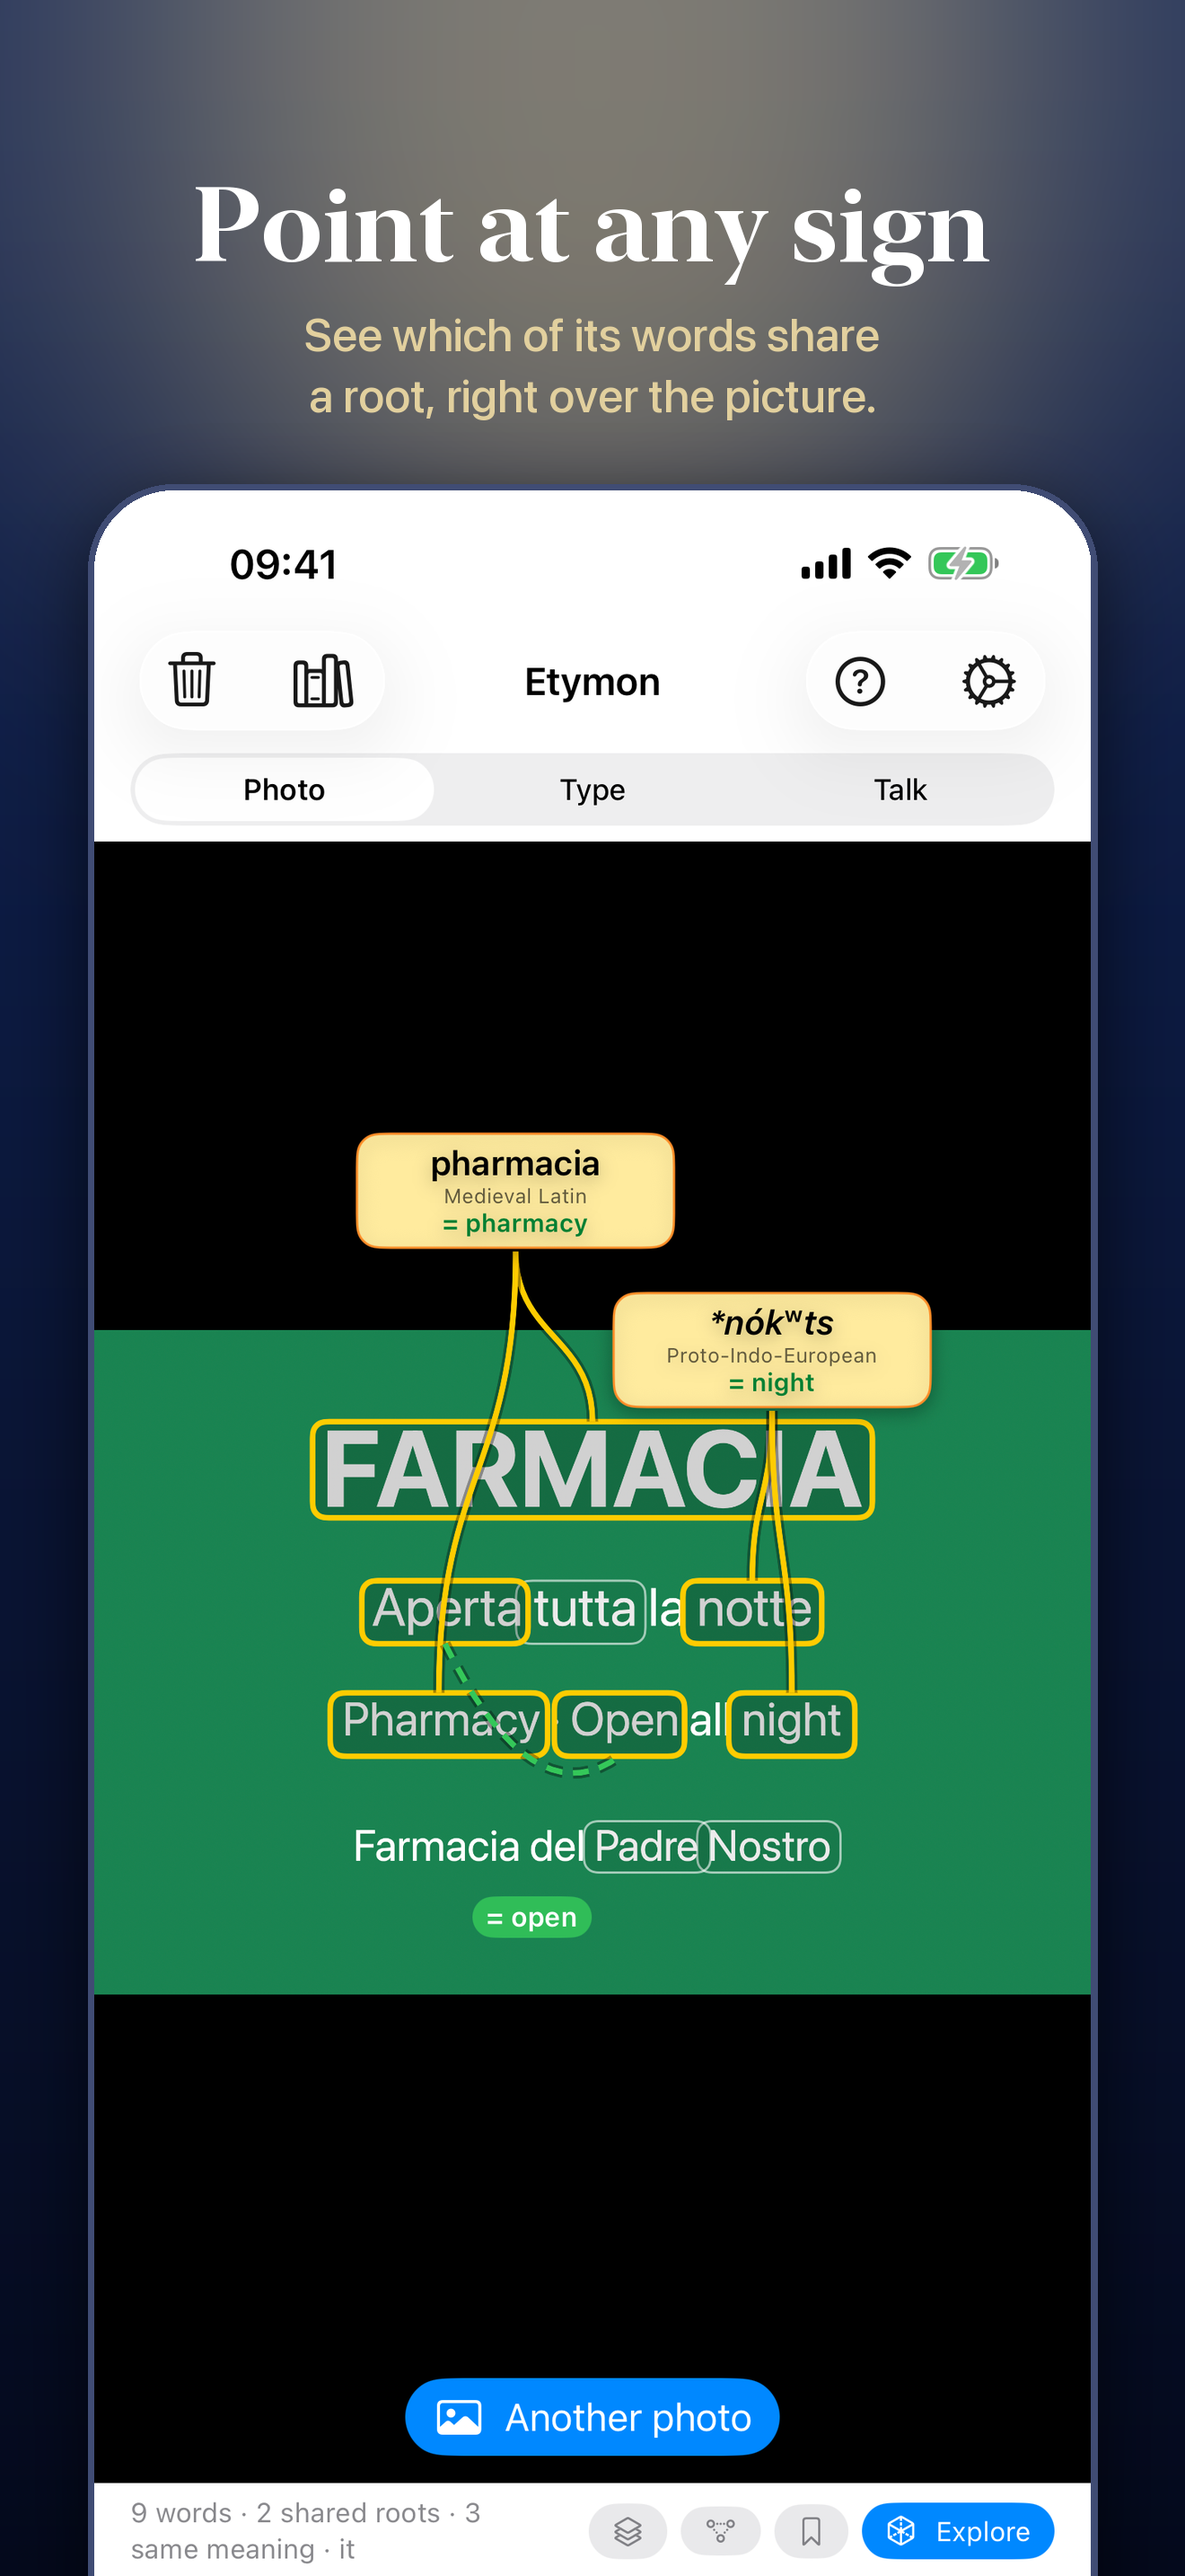
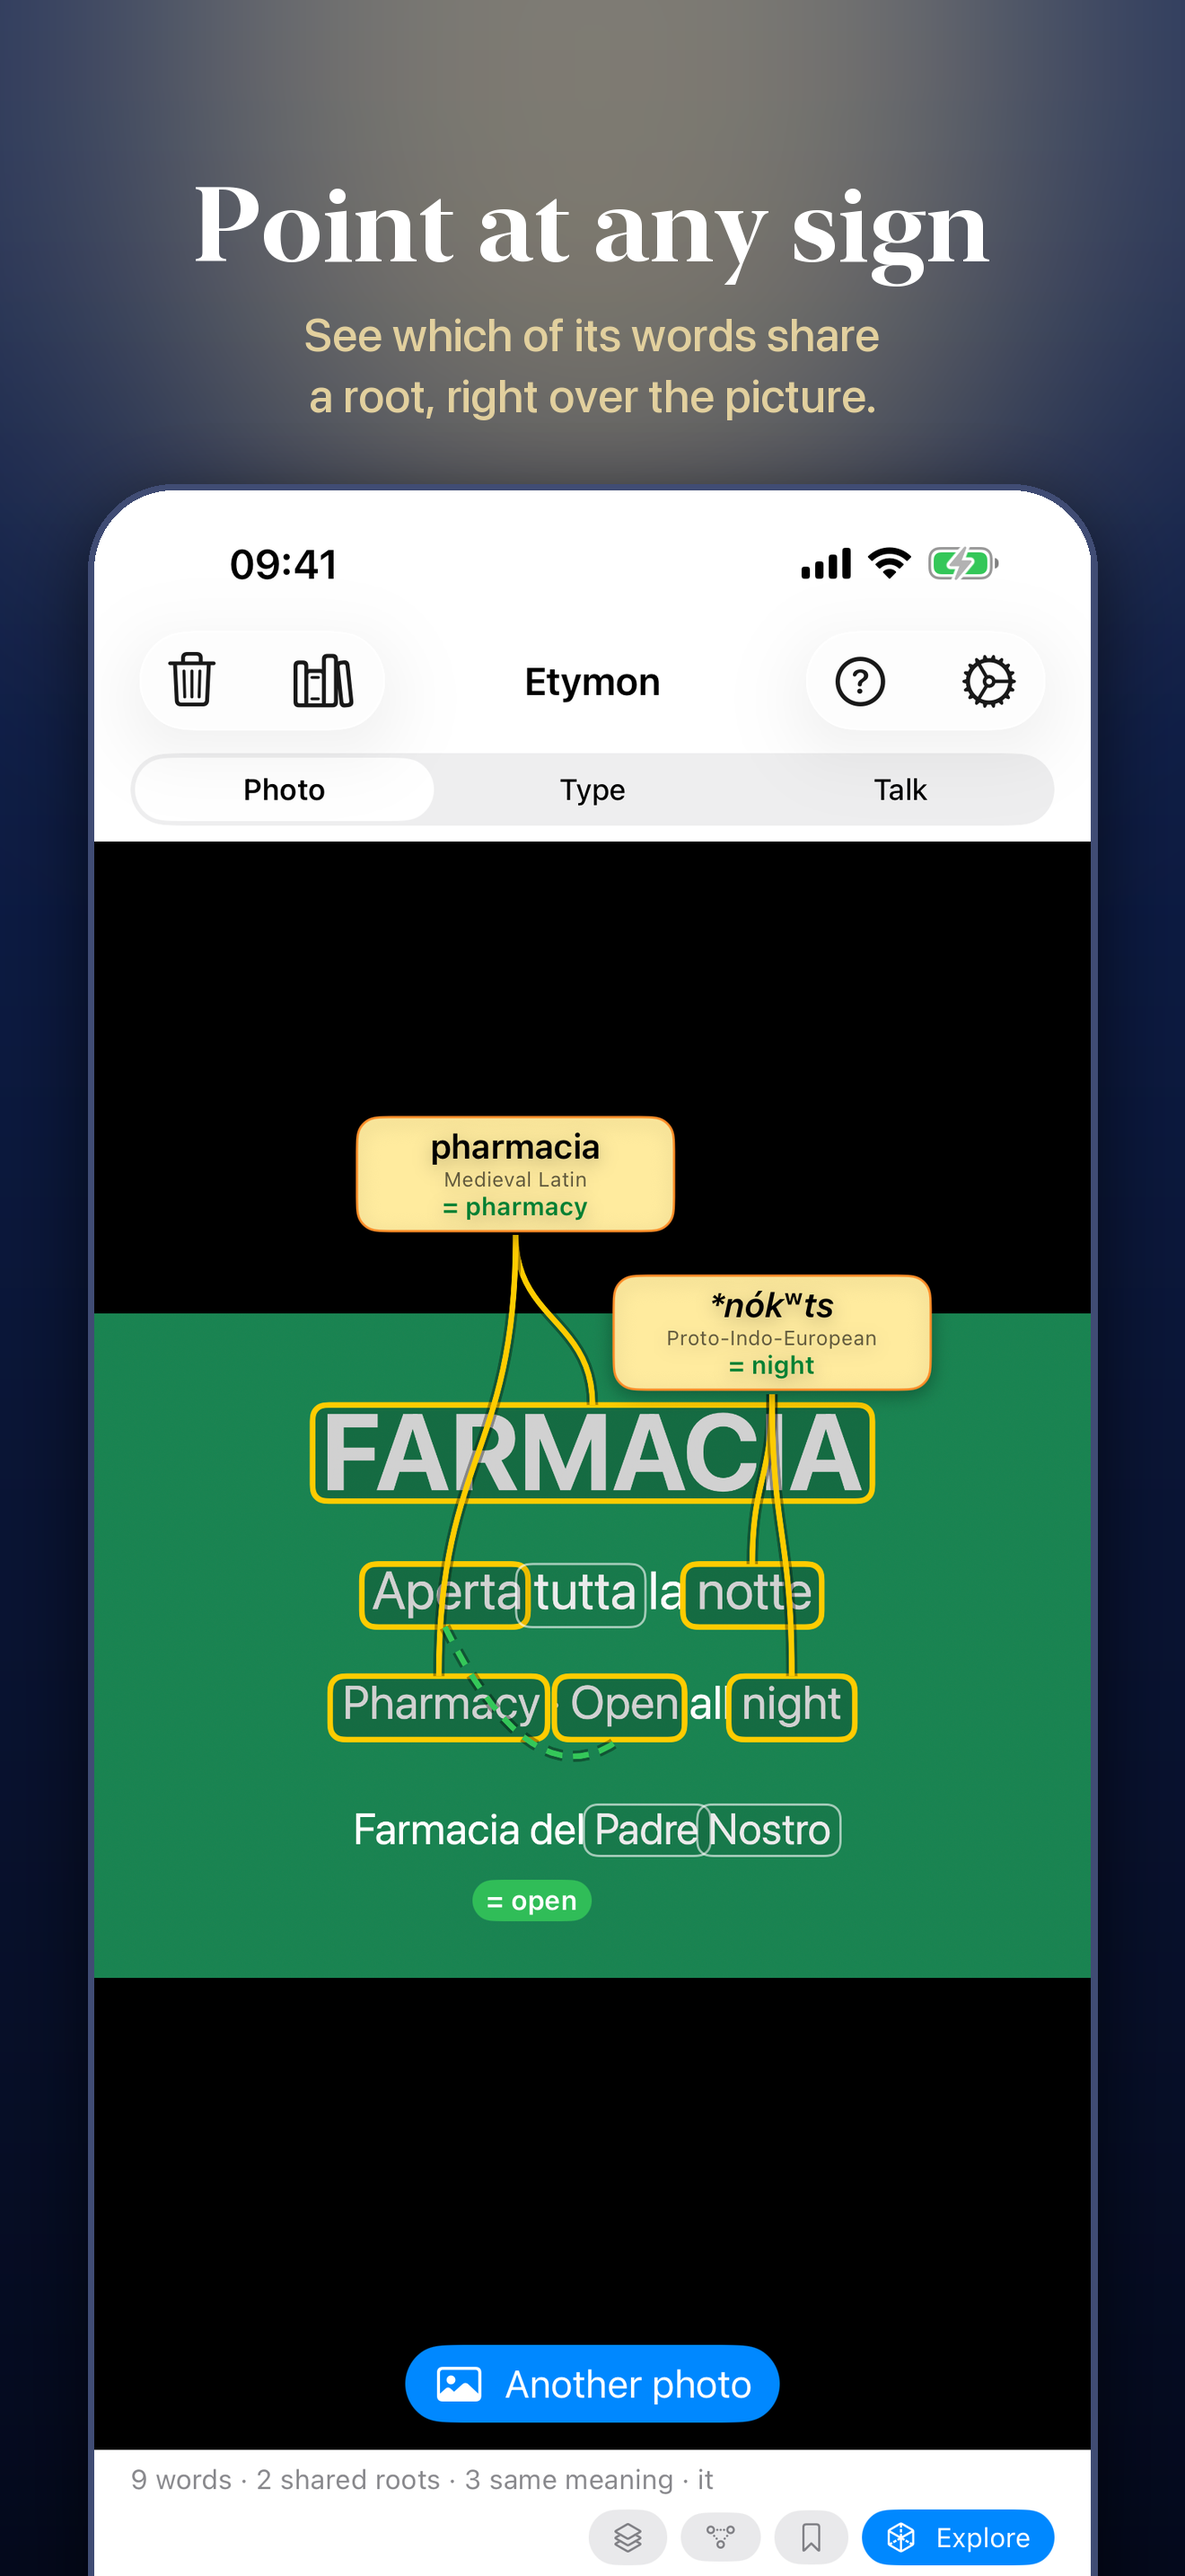
Photo bar: the counts above the buttons when they don't fit beside them; build 3
"1 shared roots" and "0 same meaning" read properly now (counts of none are left
out). On the phone, with longer counts, the status line was squeezed into four lines.

Changed region(s): [[0.0932, 0.4344, 0.9318, 0.7758], [0.0621, 0.8999, 0.9318, 1.0]]

diff --git a/ios/Etymon/ContentView.swift b/ios/Etymon/ContentView.swift
@@ -176,7 +176,28 @@ struct ContentView: View {
         }
     }
 
-    @ViewBuilder private var status: some View {
+    /// The status line and the scene's actions: side by side when the line fits next to the
+    /// buttons, otherwise the line above them (long counts, large text).
+    private var status: some View {
+        ViewThatFits(in: .horizontal) {
+            HStack(spacing: 6) {
+                summary
+                Spacer(minLength: 8)
+                actions
+            }
+            VStack(alignment: .leading, spacing: 6) {
+                summary
+                HStack(spacing: 6) {
+                    Spacer()
+                    actions
+                }
+            }
+        }
+        .font(.caption).foregroundStyle(.secondary)
+        .padding(.horizontal).padding(.vertical, 6)
+    }
+
+    @ViewBuilder private var summary: some View {
         HStack(spacing: 6) {
             if model.isLoading { ProgressView().controlSize(.small) }
             if let error = model.error {
@@ -185,12 +206,24 @@ struct ContentView: View {
             } else if model.words.isEmpty {
                 Text(source.isLive ? "Point at some text." : "Pick a photo with some text.")
             } else {
-                let roots = model.response?.connections.count ?? 0
-                let meanings = model.response?.semanticLinks.count ?? 0
-                Text("\(model.words.count) words · \(roots) shared roots · \(meanings) same meaning"
-                     + (model.language.map { " · \($0)" } ?? ""))
+                Text(Self.countLine(words: model.words.count, roots: model.response?.connections.count ?? 0,
+                                  meanings: model.response?.semanticLinks.count ?? 0,
+                                  language: model.language))
             }
-            Spacer()
+        }
+    }
+
+    /// "9 words · 2 shared roots · 1 same meaning · it"; a count of none is left out.
+    static func countLine(words: Int, roots: Int, meanings: Int, language: String?) -> String {
+        var parts = [words == 1 ? "1 word" : "\(words) words"]
+        if roots > 0 { parts.append(roots == 1 ? "1 shared root" : "\(roots) shared roots") }
+        if meanings > 0 { parts.append("\(meanings) same meaning") }
+        if let language { parts.append(language) }
+        return parts.joined(separator: " · ")
+    }
+
+    @ViewBuilder private var actions: some View {
+        HStack(spacing: 6) {
             if model.response != nil {
                 Menu {
                     Picker("Show", selection: $layers) {
@@ -221,8 +254,6 @@ struct ContentView: View {
                     .accessibilityIdentifier("explore")
             }
         }
-        .font(.caption).foregroundStyle(.secondary)
-        .padding(.horizontal).padding(.vertical, 6)
     }
 
     /// Shared roots, same meanings, or both side by side.
